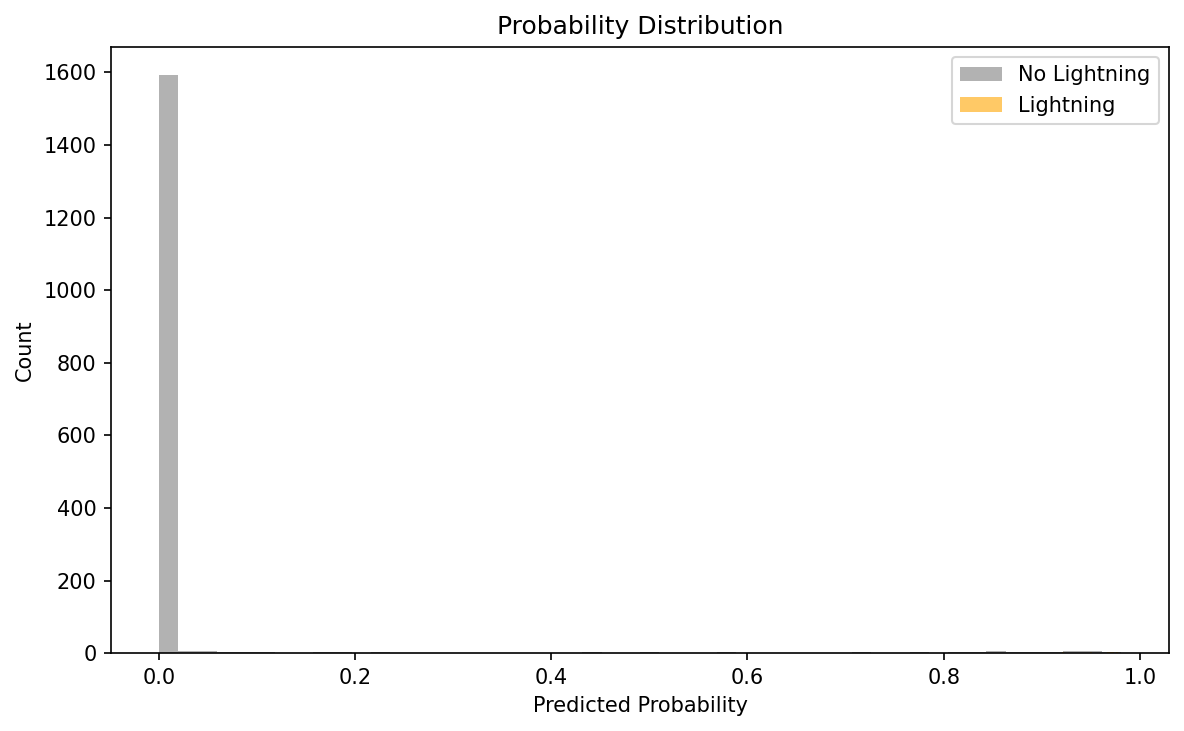
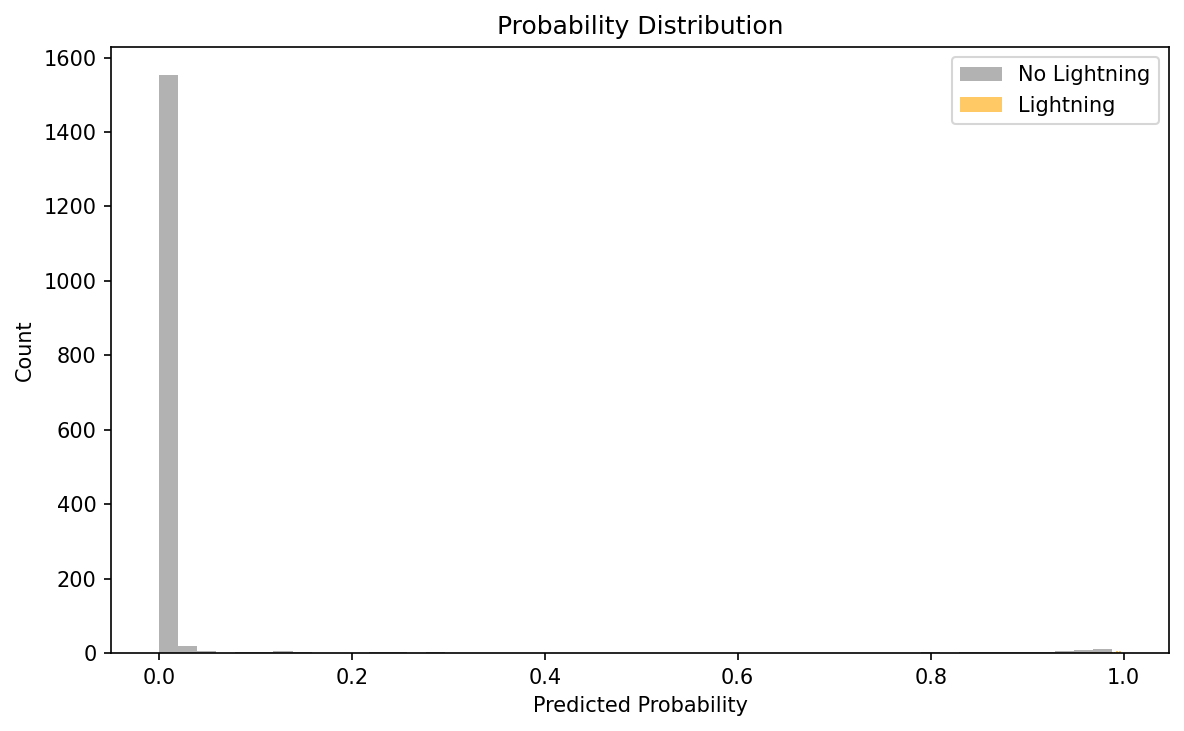
training tweaks

diff --git a/main.py b/main.py
@@ -283,9 +283,6 @@ if __name__ == "__main__":
         # smoother = GaussianSmoothing(kernel_size=3, sigma=1)
         # y_smooth = smoother(y)
 
-        print(X.shape)  # should be (N_samples, N_channels, H, W)
-        print(y.shape)
-
         save_tensor_stats_report(
             X=X,
             y=y,
@@ -295,6 +292,7 @@ if __name__ == "__main__":
             groups=[train_groups, val_groups],
         )
 
+        # Data Loaders
         full_dataset = TensorDataset(X, y)
         train_loader = DataLoader(
             Subset(full_dataset, train_idx),
@@ -308,6 +306,12 @@ if __name__ == "__main__":
             shuffle=False,
         )
 
+        ######## SANITY CHECKS
+
+        # Check shape of tensors
+        print(f'X Tensor shape {X.shape}\n')
+        print(f'y Tensor shape {y.shape}\n')
+
         # Check ratio between number of lightning and number of total pixels
         total_pixels = 0
         total_lightning = 0
@@ -315,6 +319,8 @@ if __name__ == "__main__":
             total_pixels += y.numel()
             total_lightning += y.sum().item()
         print(f"Ratio: {total_pixels/total_lightning:.1f}\n")
+
+        ########################
 
         if run_config.to_train:
             # run train and evaluation

diff --git a/config/experiment.py b/config/experiment.py
@@ -10,8 +10,8 @@ RUN_CONFIG = RunConfig(
 
 MODEL_CONFIG = ModelConfig(
     learning_rate=0.001,
-    pos_weight=100.0,
-    num_epochs=15,
+    pos_weight=60.0,
+    num_epochs=30,
     batch_size=8,
     decision_threshold=0.85,
     clip_after_normalization=True,
@@ -44,7 +44,12 @@ ERA5_CASE_CONFIG = CaseConfig(
     test_cases=[],
     tensor_dataset_name="ERA5_train_cases_1_to_5",
     # ERA5 variable short names (must match what's in the NC files)
-    atm_params=["cape", "kx", "tciw", "d2m", "tcwv", "crr", "msl", "t2m", "hcc"],
+    atm_params=["cape", "kx", "tciw", "d2m", "tcwv", "crr", "msl", "t2m", "hcc",
+                "u_500", "u_700", "u_850",
+                "v_500", "v_700", "v_850",
+                "w_500", "w_700", "w_850",
+                "t_500", "t_700", "t_850",
+                "r_500", "r_700", "r_850"],
     with_subparams={},
     space_res="era5",       # ERA5 is on ~28km grid
     time_res="1_hours",
